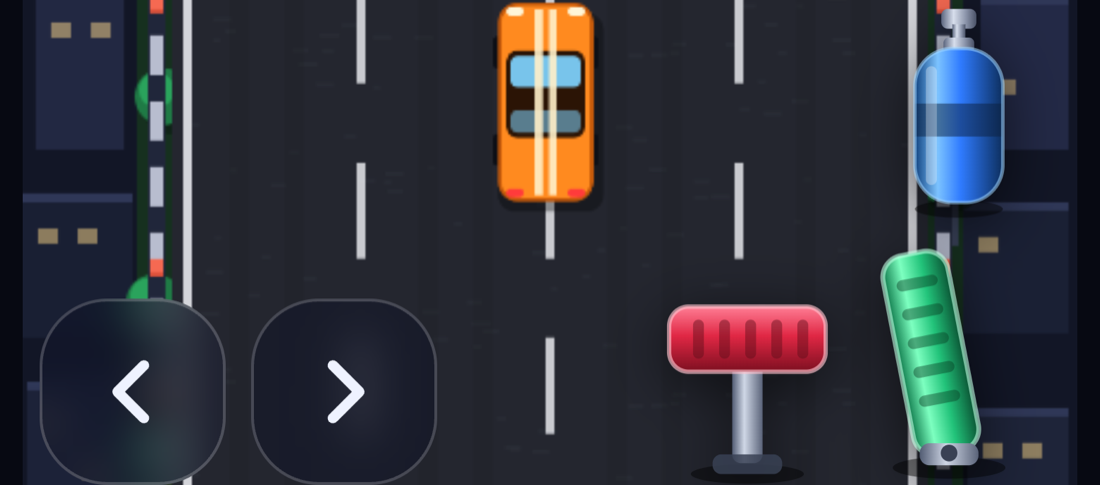
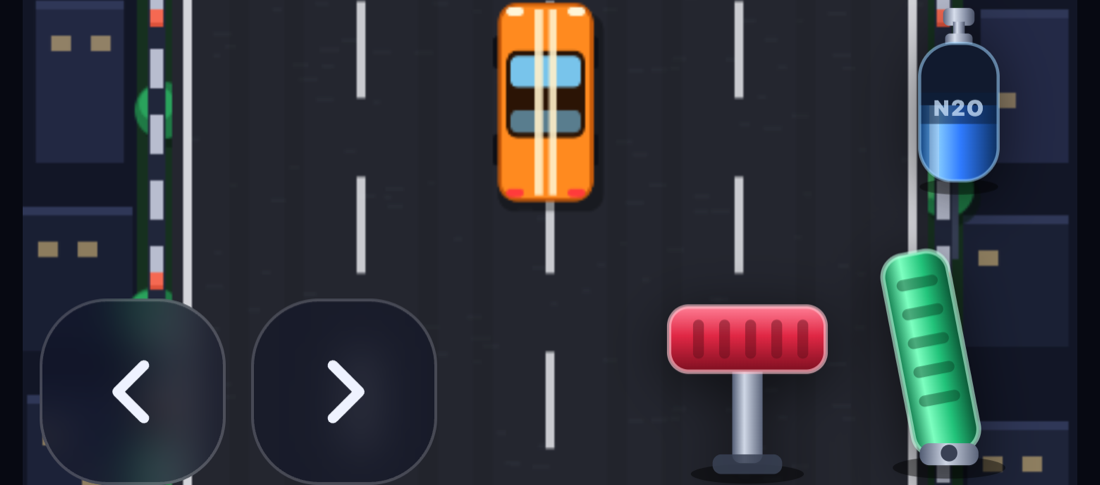
Add a pedal-side setting and make boost show its real state
Two problems with the touch controls.

The pedal cluster was fixed to the right, which suits right-handers and
nobody else. Add a PEDALS: LEFT / RIGHT toggle to the landing screen,
stored alongside the other settings so it survives between sessions.
Choosing left mirrors the whole strip — pedals to the outer left edge,
steering to the right — and flips the accelerator's lean so it still
tilts inward, away from the screen edge.

Boost also gave no indication it was boosting. The control only reacted
to a finger being down, so holding it with an empty bottle looked
exactly like a live boost. The bottle is now the gauge, driven by actual
nitro state rather than by touch:

- it drains as charge is spent
- it fires a flickering jet while boost is genuinely running
- it greys out when there is too little left to fire
- it carries an N2O mark, so what it does is legible at a glance

Empty means "cannot fire", not "zero" — nitro bottoms out above zero and
trickles back, so a bottle showing charge that cannot be spent would be
a lie. State is pushed from the game loop only when the firing flag
flips or the gauge crosses a 5% step, so play never does needless DOM
work.

Verified on iPhone 13, iPhone SE (320px), Pixel 7 and iPad: no overflow,
smallest target 48px, gas/brake/boost each move the car state, the side
toggle persists and mirrors the layout, and holding boost to depletion
correctly drops the firing state while the finger is still down.

diff --git a/src/ui/UIManager.ts b/src/ui/UIManager.ts
@@ -8,7 +8,7 @@
 import { Audio } from '../game/systems/AudioManager';
 import type { GameOverPayload } from '../game/systems/EventBus';
 import { formatScore, formatTime } from '../game/systems/ScoreManager';
-import { Storage } from '../game/systems/StorageManager';
+import { Storage, type ControlSide } from '../game/systems/StorageManager';
 
 export type GameState = 'MENU' | 'PLAYING' | 'PAUSED' | 'GAME_OVER';
 
@@ -18,6 +18,10 @@ export interface UICallbacks {
   onRestart: () => void;
   onHome: () => void;
   onPause: () => void;
+}
+
+function clamp(v: number, min: number, max: number): number {
+  return v < min ? min : v > max ? max : v;
 }
 
 function el<T extends HTMLElement>(id: string): T {
@@ -33,6 +37,12 @@ export class UIManager {
   private readonly touchControls = el('touch-controls');
   private readonly pauseBtn = el<HTMLButtonElement>('btn-pause');
   private readonly soundBtn = el<HTMLButtonElement>('btn-sound');
+  private readonly sideBtn = el<HTMLButtonElement>('btn-side');
+  private readonly boostBtn = el<HTMLButtonElement>('touch-controls').querySelector<HTMLElement>('.tc-boost')!;
+
+  // Last pushed boost visuals, so we only touch the DOM when they change
+  private lastBoosting: boolean | null = null;
+  private lastFuelStep = -1;
 
   /** Touch controls are only mounted on devices that actually have a finger. */
   private readonly hasTouch =
@@ -64,7 +74,14 @@ export class UIManager {
       if (on) Audio.playButton();
     });
 
+    this.sideBtn.addEventListener('click', () => {
+      Audio.unlock();
+      Audio.playButton();
+      this.setControlSide(Storage.get('controlSide') === 'right' ? 'left' : 'right');
+    });
+
     this.renderSoundButton(Audio.isEnabled());
+    this.setControlSide(Storage.get('controlSide'));
     this.refreshMenuStats();
     this.positionPauseButton();
 
@@ -80,6 +97,44 @@ export class UIManager {
       Audio.playButton();
       handler();
     });
+  }
+
+  /** Moves the pedal cluster to the player's preferred side and stores it. */
+  private setControlSide(side: ControlSide): void {
+    Storage.set('controlSide', side);
+    this.touchControls.classList.toggle('side-left', side === 'left');
+    this.sideBtn.textContent = `PEDALS: ${side.toUpperCase()}`;
+  }
+
+  /**
+   * Reflects real boost state on the bottle: how much charge is left, whether
+   * it is firing, and whether it is empty. Called only when something
+   * actually changes, so gameplay never triggers needless DOM work.
+   */
+  setBoostState(boosting: boolean, fuel01: number, canFire: boolean): void {
+    const step = Math.round(clamp(fuel01, 0, 1) * 20);
+    if (step !== this.lastFuelStep) {
+      this.lastFuelStep = step;
+      this.boostBtn.style.setProperty('--boost-fuel', String(step / 20));
+    }
+    // "Empty" means too low to fire, not literally zero — nitro bottoms out
+    // above zero and trickles back, so a bottle showing charge you cannot
+    // actually spend would be a lie.
+    if (!canFire !== this.boostBtn.classList.contains('is-empty')) {
+      this.boostBtn.classList.toggle('is-empty', !canFire);
+    }
+    if (boosting !== this.lastBoosting) {
+      this.lastBoosting = boosting;
+      this.boostBtn.classList.toggle('is-boosting', boosting);
+    }
+  }
+
+  /** Clears boost visuals between runs. */
+  resetBoostState(): void {
+    this.lastBoosting = null;
+    this.lastFuelStep = -1;
+    this.boostBtn.classList.remove('is-boosting', 'is-empty');
+    this.boostBtn.style.setProperty('--boost-fuel', '1');
   }
 
   private renderSoundButton(on: boolean): void {

diff --git a/index.html b/index.html
@@ -27,7 +27,10 @@
             <div class="stat"><span class="stat-label">TOTAL COINS</span><span class="stat-value" id="menu-coins">0</span></div>
           </div>
 
-          <button id="btn-sound" class="btn btn-ghost" aria-pressed="true">SOUND: ON</button>
+          <div class="settings-row">
+            <button id="btn-sound" class="btn btn-ghost" aria-pressed="true">SOUND: ON</button>
+            <button id="btn-side" class="btn btn-ghost">PEDALS: RIGHT</button>
+          </div>
 
           <div class="controls-help">
             <div class="ch-row"><b>Desktop</b><span>A/D or ←/→ steer · W/S throttle · SPACE nitro · ESC pause</span></div>
@@ -91,7 +94,7 @@
                it should feel like pressing the real part. -->
 
           <button class="tc tc-boost" data-ctl="nitro" aria-label="Boost">
-            <svg viewBox="0 0 56 100" aria-hidden="true">
+            <svg viewBox="0 0 56 112" aria-hidden="true">
               <defs>
                 <linearGradient id="nosBody" x1="0" x2="1" y1="0" y2="0">
                   <stop offset="0%" stop-color="#11427f"/>
@@ -105,14 +108,36 @@
                   <stop offset="70%" stop-color="#8b94aa"/>
                   <stop offset="100%" stop-color="#495166"/>
                 </linearGradient>
+                <linearGradient id="nosJet" x1="0" x2="0" y1="0" y2="1">
+                  <stop offset="0%" stop-color="#ffffff"/>
+                  <stop offset="35%" stop-color="#8fd0ff"/>
+                  <stop offset="100%" stop-color="#2f7bff" stop-opacity="0"/>
+                </linearGradient>
+                <clipPath id="nosClip">
+                  <rect x="8" y="22" width="40" height="70" rx="17"/>
+                </clipPath>
               </defs>
+
+              <!-- jet of gas, only visible while boost is actually firing -->
+              <g class="nos-jet">
+                <path d="M20 90h16l-4 20h-8z" fill="url(#nosJet)"/>
+                <path d="M24 92h8l-2 14h-4z" fill="#ffffff" opacity=".8"/>
+              </g>
+
               <ellipse class="pd-shadow" cx="28" cy="95" rx="20" ry="4"/>
               <rect x="20" y="4" width="16" height="9" rx="3" fill="url(#nosSteel)"/>
               <rect x="25" y="11" width="6" height="8" fill="url(#nosSteel)"/>
               <rect x="21" y="17" width="14" height="7" rx="2.5" fill="url(#nosSteel)"/>
-              <rect x="8" y="22" width="40" height="70" rx="17" fill="url(#nosBody)"/>
-              <rect x="8" y="47" width="40" height="15" fill="#0b1f3d" opacity=".5"/>
-              <rect x="13" y="30" width="5" height="54" rx="2.5" fill="#ffffff" opacity=".3"/>
+
+              <!-- charge level: the bottle empties as boost is spent -->
+              <g clip-path="url(#nosClip)">
+                <rect x="8" y="22" width="40" height="70" fill="#111a2e"/>
+                <rect class="nos-fill" x="8" y="22" width="40" height="70" fill="url(#nosBody)"/>
+                <rect class="nos-fill" x="13" y="22" width="5" height="70" fill="#ffffff" opacity=".28"/>
+              </g>
+
+              <rect x="8" y="47" width="40" height="16" fill="#0b1f3d" opacity=".55"/>
+              <text class="nos-mark" x="28" y="59" text-anchor="middle">N2O</text>
               <rect x="8" y="22" width="40" height="70" rx="17" fill="none" stroke="#9ed4ff" stroke-width="1.6" opacity=".55"/>
             </svg>
           </button>

diff --git a/src/style.css b/src/style.css
@@ -140,6 +140,8 @@ html, body {
 
 /* ---------- Stats ---------- */
 .stats-row { display: flex; gap: 10px; }
+.settings-row { display: flex; gap: 8px; }
+.settings-row .btn { flex: 1; }
 .stat {
   flex: 1; display: flex; flex-direction: column; gap: 4px;
   padding: 10px 8px; border-radius: 12px;
@@ -278,9 +280,54 @@ html, body {
 .tc-boost svg { transition: transform 0.09s ease, filter 0.09s ease; }
 .tc-boost.active svg { transform: scale(0.95); }
 
+/* ---- Boost state ----
+   The bottle is the gauge: it empties as charge is spent, greys out when
+   there is none left, and fires a visible jet while boost is actually
+   running. Driven by real game state, not by whether a finger is down —
+   holding the button with an empty bottle must not look like boosting. */
+.nos-fill {
+  transform-origin: 50% 100%;
+  transform: scaleY(var(--boost-fuel, 1));
+  transition: transform 0.12s linear;
+}
+.nos-mark {
+  fill: #cfe6ff;
+  opacity: 0.75;
+  font: 900 11px 'Segoe UI', system-ui, sans-serif;
+  letter-spacing: 0.5px;
+}
+.nos-jet { opacity: 0; transform-origin: 50% 80%; transform: scaleY(0.4); }
+
+/* Firing */
+.tc-boost.is-boosting svg { filter: drop-shadow(0 2px 5px rgba(0,0,0,.6)) drop-shadow(0 0 22px rgba(120,190,255,1)); }
+.tc-boost.is-boosting .nos-jet { opacity: 1; animation: jet-flicker 0.14s steps(2) infinite; }
+.tc-boost.is-boosting .nos-mark { fill: #ffffff; opacity: 1; }
+@keyframes jet-flicker {
+  0%   { transform: scaleY(0.85) scaleX(1); }
+  100% { transform: scaleY(1.15) scaleX(0.9); }
+}
+
+/* Empty — clearly unavailable, so a dead press is explained */
+.tc-boost.is-empty svg { filter: grayscale(0.85) brightness(0.62) drop-shadow(0 3px 7px rgba(0,0,0,.55)); }
+.tc-boost.is-empty { opacity: 0.75; }
+
 .tc-gas.active svg   { filter: drop-shadow(0 2px 5px rgba(0, 0, 0, 0.65)) drop-shadow(0 0 16px rgba(94, 255, 176, 0.85)); }
 .tc-brake.active svg { filter: drop-shadow(0 2px 5px rgba(0, 0, 0, 0.65)) drop-shadow(0 0 16px rgba(255, 90, 120, 0.85)); }
 .tc-boost.active svg { filter: drop-shadow(0 2px 5px rgba(0, 0, 0, 0.65)) drop-shadow(0 0 18px rgba(120, 190, 255, 0.9)); }
+
+/* ---------- Control side ----------
+   Left-handed layout mirrors the strip: pedals move to the outer left edge,
+   steering to the right, and the accelerator leans the other way so it still
+   tilts inward, away from the screen edge. */
+#touch-controls.side-left { flex-direction: row-reverse; }
+#touch-controls.side-left .tc-pedals {
+  grid-template-columns: var(--tc-gas-w) var(--tc-brake-w);
+}
+#touch-controls.side-left .tc-boost { grid-area: 1 / 1; }
+#touch-controls.side-left .tc-brake { grid-area: 2 / 2; }
+#touch-controls.side-left .tc-gas   { grid-area: 2 / 1; }
+#touch-controls.side-left .tc-gas .pd-pad { transform: rotate(11deg); transform-origin: 55% 88%; }
+#touch-controls.side-left .tc-gas.active .pd-pad { transform: rotate(3.5deg) translateY(2px) scaleY(0.97); }
 
 /* ---------- Pause button ---------- */
 .icon-btn {

diff --git a/src/game/scenes/GameScene.ts b/src/game/scenes/GameScene.ts
@@ -4,7 +4,7 @@
  * top-level description of what a frame of Police Chase actually is.
  */
 import Phaser from 'phaser';
-import { GAME_HEIGHT, GAME_WIDTH } from '../config/GameConfig';
+import { GAME_HEIGHT, GAME_WIDTH, NITRO_MAX, NITRO_MIN_TO_FIRE } from '../config/GameConfig';
 import { Player } from '../entities/Player';
 import type { PickupKind } from '../entities/Pickup';
 import { Audio } from '../systems/AudioManager';
@@ -19,6 +19,7 @@ import { RoadManager } from '../systems/RoadManager';
 import { ScoreManager } from '../systems/ScoreManager';
 import { TrafficManager } from '../systems/TrafficManager';
 import { createHudState, HudScene, type HudState } from './HudScene';
+import { UI } from '../../ui/UIManager';
 
 /** Longest frame step we'll simulate — protects against tab-switch spikes. */
 const MAX_DT = 0.05;
@@ -135,6 +136,7 @@ export class GameScene extends Phaser.Scene {
     this.hudState = Object.assign(this.hudState, createHudState());
     this.nearMissCooldown = 0;
     this.running = true;
+    UI.resetBoostState();
 
     Audio.startEngine();
     Audio.startSiren();
@@ -175,6 +177,13 @@ export class GameScene extends Phaser.Scene {
     this.nearMissCooldown = Math.max(0, this.nearMissCooldown - dt);
 
     this.effects.updateAmbient(speed, this.player.nitroActive, this.player.x, this.player.y);
+    // The boost control mirrors real nitro state — charge left, firing, empty —
+    // so a press with a dead bottle never looks like a boost.
+    UI.setBoostState(
+      this.player.nitroActive,
+      this.player.nitroFuel / NITRO_MAX,
+      this.player.nitroActive || this.player.nitroFuel >= NITRO_MIN_TO_FIRE,
+    );
     Audio.setEngine(this.player.throttle, this.player.nitroActive);
     Audio.setSirenProximity(this.police.proximity());
 

diff --git a/src/game/systems/StorageManager.ts b/src/game/systems/StorageManager.ts
@@ -6,10 +6,14 @@
  * implementation later is the only change a backend would require.
  */
 
+/** Which side of the screen the pedal cluster sits on. */
+export type ControlSide = 'left' | 'right';
+
 export interface SaveData {
   bestScore: number;
   totalCoins: number;
   soundEnabled: boolean;
+  controlSide: ControlSide;
   selectedCar: string;
   carUpgrades: Record<string, number>;
 }
@@ -20,6 +24,7 @@ const DEFAULTS: SaveData = {
   bestScore: 0,
   totalCoins: 0,
   soundEnabled: true,
+  controlSide: 'right',
   selectedCar: 'default',
   carUpgrades: {},
 };
@@ -40,6 +45,7 @@ class StorageManagerImpl {
         bestScore: numberOr(parsed.bestScore, DEFAULTS.bestScore),
         totalCoins: numberOr(parsed.totalCoins, DEFAULTS.totalCoins),
         soundEnabled: typeof parsed.soundEnabled === 'boolean' ? parsed.soundEnabled : DEFAULTS.soundEnabled,
+        controlSide: parsed.controlSide === 'left' ? 'left' : DEFAULTS.controlSide,
         selectedCar: typeof parsed.selectedCar === 'string' ? parsed.selectedCar : DEFAULTS.selectedCar,
         carUpgrades: parsed.carUpgrades && typeof parsed.carUpgrades === 'object' ? parsed.carUpgrades : {},
       };

diff --git a/README.md b/README.md
@@ -36,7 +36,7 @@ No install. No account. No downloads. Just hit **PLAY**.
 <td align="center" width="33%">
   <img src="docs/screenshots/menu.png" width="240" alt="Landing screen"><br>
   <b>Landing screen</b><br>
-  <sub>Best score, total coins, sound toggle</sub>
+  <sub>Best score, coins, sound and pedal-side toggles</sub>
 </td>
 <td align="center" width="33%">
   <img src="docs/screenshots/gameplay.png" width="240" alt="Driving through traffic"><br>
@@ -113,6 +113,15 @@ nginx — anything. **There is no backend.**
 <tr><td><b>Nitro</b></td><td><code>Space</code></td><td>hold <b>BOOST</b></td></tr>
 <tr><td><b>Pause</b></td><td><code>Esc</code></td><td>HUD pause button</td></tr>
 </table>
+
+On touch, steering sits under one thumb and the **GAS / BRAKE / BOOST** cluster
+under the other. Which side the pedals go on is a setting on the landing screen
+(**PEDALS: LEFT / RIGHT**) and is remembered between sessions.
+
+The boost control is the nitrous bottle itself: it drains as you spend charge,
+fires a visible jet while boost is actually running, and greys out when there
+is too little left to fire — so a press that does nothing always looks like a
+press that does nothing.
 
 ---
 
